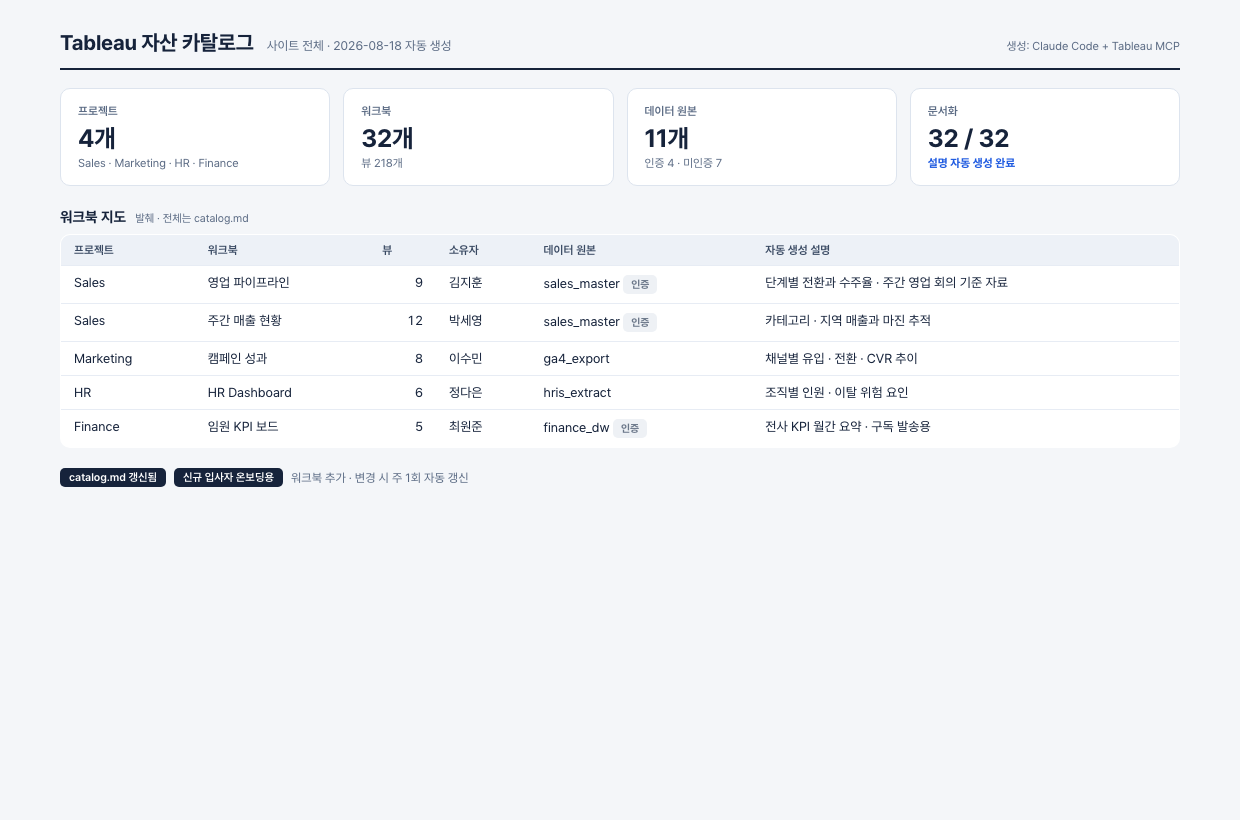
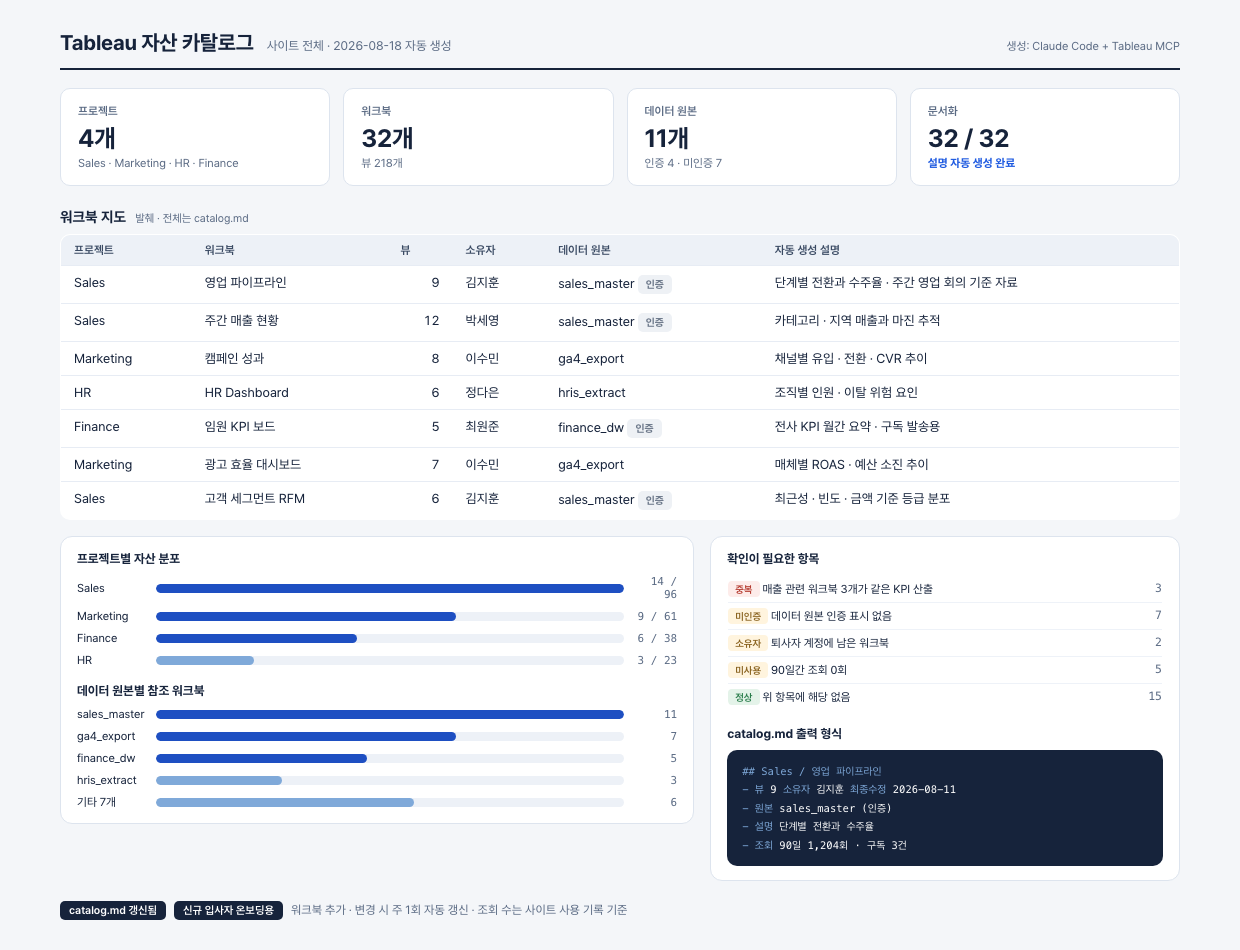
demo_public_mcp · uc4 자산 카탈로그 내용 확장 후 캡처 갱신
- demo_public_mcp: 질의 4개로 확장 (제작 구조 · 퍼널 전환 · 시트 16개 역할 · 이식 시 교체 대상)
  퍼널 막대 그래프, 시트 그룹 표, MCP가 읽어 온 항목 표 추가
- uc4: 프로젝트별 자산 분포 · 데이터 원본 참조 막대, 확인 필요 항목, catalog.md 출력 형식 추가
  워크북 지도 행 2개 추가
- 두 페이지 스크린샷 재생성해 덱에 반영

diff --git a/usecases/demo_public_mcp.html b/usecases/demo_public_mcp.html
@@ -37,6 +37,24 @@ code{font-family:'SF Mono',Menlo,monospace;font-size:11.5px;background:#EDF1F7;b
 .st{background:#F1F5FB;border-radius:8px;padding:9px 6px;text-align:center}
 .st b{font-size:16px;margin:0}
 .st span{font-size:10.5px;color:#5B6B84}
+.fun{margin:12px 0 6px;display:flex;align-items:flex-end;gap:8px}
+.fun .st2{flex:1;display:flex;flex-direction:column;align-items:center;gap:5px}
+.fun .trk{width:100%;height:64px;display:flex;align-items:flex-end}
+.fun .bar{width:100%;background:#C9DBF6;border-radius:4px 4px 0 0;min-height:4px}
+.fun .st2:last-child .bar{background:#1E4FC2}
+.fun .lb{font-size:9.5px;color:#5B6B84;text-align:center;line-height:1.2}
+.fun .vv{font-size:10.5px;font-weight:700;color:#16233B}
+.rate{display:flex;gap:6px;margin-bottom:8px}
+.rate span{flex:1;text-align:center;font-size:10px;color:#5B6B84}
+.rate span b{display:block;font-size:12px;color:#1E4FC2}
+.rate span.warn b{color:#C4453A}
+.tw{width:100%;border-collapse:collapse;margin-top:6px}
+.tw th,.tw td{text-align:left;padding:6px 8px;border-bottom:1px solid #E7ECF4;font-size:11.5px;line-height:1.45}
+.tw th{font-size:10.5px;color:#7186A3;font-weight:600;text-transform:uppercase;letter-spacing:.04em}
+.tw td.n{text-align:right;font-family:'SF Mono',Menlo,monospace;font-size:11.5px}
+.q2{background:#fff;border:1px solid #D5DEEC;border-radius:14px 14px 3px 14px;padding:11px 16px;
+  font-size:14px;font-weight:600;margin:16px 0 10px}
+.note2{margin-top:8px;font-size:11.5px;color:#7186A3;line-height:1.55}
 .foot{margin-top:18px;display:flex;gap:8px;align-items:center;font-size:12px;color:#5B6B84}
 .foot .b{background:#16233B;color:#fff;border-radius:5px;padding:3px 9px;font-size:11px;font-weight:600}
 .foot code{background:#E4EBF5}
@@ -68,17 +86,77 @@ code{font-family:'SF Mono',Menlo,monospace;font-size:11.5px;background:#EDF1F7;b
         <div class="sec">재현 순서</div>
         <li>Stage 정렬 계산 필드 → 단계별 집계 시트 → 툴팁 시트(T_) 연결 → KPI 카드(B_) 4개 → 대시보드 조립</li>
       </div>
+
+      <div class="q2">단계별 전환은 어떻게 나와? 어디서 제일 많이 빠져?</div>
+      <div class="chips"><span class="chip">get-view-data</span><span class="chip">read-sheet</span></div>
+      <div class="a">
+        <div class="sec">퍼널 단계별 잔존 · Conversion Rate 시트 기준</div>
+        <div class="fun">
+          <div class="st2"><span class="vv">842</span><div class="trk"><div class="bar" style="height:100%"></div></div><span class="lb">Prospecting</span></div>
+          <div class="st2"><span class="vv">512</span><div class="trk"><div class="bar" style="height:61%"></div></div><span class="lb">Qualification</span></div>
+          <div class="st2"><span class="vv">277</span><div class="trk"><div class="bar" style="height:33%"></div></div><span class="lb">Value<br>Proposition</span></div>
+          <div class="st2"><span class="vv">108</span><div class="trk"><div class="bar" style="height:13%"></div></div><span class="lb">Proposal</span></div>
+          <div class="st2"><span class="vv">51</span><div class="trk"><div class="bar" style="height:7%"></div></div><span class="lb">Negotiation</span></div>
+          <div class="st2"><span class="vv">24</span><div class="trk"><div class="bar" style="height:4%"></div></div><span class="lb">Closed Won</span></div>
+        </div>
+        <div class="rate">
+          <span><b>61%</b>→ Qual</span>
+          <span class="warn"><b>54%</b>→ Value</span>
+          <span class="warn"><b>39%</b>→ Proposal</span>
+          <span><b>47%</b>→ Nego</span>
+          <span><b>47%</b>→ Won</span>
+        </div>
+        <li>Value Proposition → Proposal 구간 39%로 단계 중 이탈이 가장 큼 · 277건 중 169건 이탈</li>
+        <li>전체 Prospecting → Closed Won 2.9% · 최종 Won Rate는 <code>[# of Won Opp.] / [# of Closed Opp.]</code>로 별도 계산</li>
+      </div>
+
+      <div class="q2">시트 16개는 각각 뭐 하는 거야?</div>
+      <div class="chips"><span class="chip">list-sheets</span><span class="chip">analyze-structure</span></div>
+      <div class="a">
+        <table class="tw">
+          <tr><th>그룹</th><th>시트</th><th class="n">개수</th><th>역할</th></tr>
+          <tr><td>본문</td><td>Conversion Rate · Number of Open Oppty · Top 10 Opp. · Won Rate · conversion · focus</td><td class="n">6</td><td>대시보드에 직접 배치</td></tr>
+          <tr><td><code>T_</code> 툴팁</td><td>T_# of Open Oppty · T_Avg.Age of Oppty · T_Avg.Deal Size · T_Conversion Rate · T_Total Expected Amount · T_Won Rate</td><td class="n">6</td><td>본문 시트의 툴팁으로만 삽입</td></tr>
+          <tr><td><code>B_</code> KPI</td><td>B_# of Open Oppty · B_Avg. Age of Oppty · B_Avg.Deal Size · B_Total Expected Amount</td><td class="n">4</td><td>하단 KPI 카드 4장</td></tr>
+        </table>
+        <div class="note2">접두사로 배치 용도를 나눠 두면 대시보드에서 어떤 시트를 지워도 되는지 바로 판단됩니다.
+          툴팁 전용 시트는 대시보드에 보이지 않아 이름만으로는 구분이 어렵습니다.</div>
+      </div>
+
+      <div class="q2">이 구조 그대로 우리 데이터에 쓰려면 뭘 바꿔야 해?</div>
+      <div class="chips"><span class="chip">get-workbook-details</span><span class="chip">list-fields</span></div>
+      <div class="a">
+        <div class="sec">교체 대상</div>
+        <li>필드 5개만 매핑: <code>Stage</code> · <code>Opportunity ID</code> · <code>Amount</code> · <code>Expected Amount</code> · <code>CreatedDate</code></li>
+        <li><code>Sort</code>의 CASE 문에 자사 단계명을 넣어 순서를 다시 정의</li>
+        <li><code>Age of Oppty</code>의 기준일 <code>#2018-10-01#</code>은 하드코딩 · <code>TODAY()</code>로 교체 필요</li>
+        <div class="sec">그대로 쓸 수 있는 것</div>
+        <li>LOD 4종(<code>{FIXED [Opportunity ID]: …}</code>) · 툴팁 시트 연결 구조 · KPI 카드 레이아웃</li>
+      </div>
     </div>
     <div class="side">
       <div class="viz"><img src="../assets/funnel_full.png" alt="Sales Funnel Dashboard"><div class="cap">Sales Funnel Dashboard | VOTD · 조회 104.4K · Featured</div></div>
-      <div class="prof">
+      <div class="prof" style="margin-bottom:10px">
         <b>Seoyeon Jun</b>
-        <div class="r">Tableau Visionary · Public Ambassador 5회 · VOTD 4회</div>
+        <div class="r">Tableau Visionary · Public Ambassador 2021–2026 · VOTD 4회</div>
         <div class="stats">
           <div class="st"><b>35</b><span>Vizzes</span></div>
           <div class="st"><b>2,086</b><span>Followers</span></div>
           <div class="st"><b>104K</b><span>Top Viz 조회</span></div>
         </div>
+      </div>
+      <div class="prof">
+        <b>MCP가 읽어 온 것</b>
+        <table class="tw" style="margin-top:8px">
+          <tr><td>워크북 메타데이터</td><td class="n">공개 API</td></tr>
+          <tr><td>.twbx 원본</td><td class="n">다운로드</td></tr>
+          <tr><td>시트 · 대시보드 목록</td><td class="n">16 · 1</td></tr>
+          <tr><td>계산 필드 원문</td><td class="n">27개</td></tr>
+          <tr><td>파라미터</td><td class="n">2개</td></tr>
+          <tr><td>데이터 원본 연결</td><td class="n">1개</td></tr>
+        </table>
+        <div class="note2">인증 없이 공개 워크북만 대상으로 합니다.
+          비공개 자산이나 사내 서버 자산은 이 경로로 접근할 수 없습니다.</div>
       </div>
     </div>
   </div>

diff --git a/usecases/uc4_catalog.html b/usecases/uc4_catalog.html
@@ -37,6 +37,27 @@ code{font-family:'SF Mono',Menlo,monospace;font-size:11px;background:#EDF1F7;bor
 .shotimg{background:#fff;border:1px solid #DDE4EE;border-radius:10px;overflow:hidden}
 .shotimg img{display:block;width:100%}
 .shotimg .cap{padding:8px 12px;font-size:11px;color:#5B6B84;border-top:1px solid #E7ECF4}
+.two{display:grid;grid-template-columns:1.35fr 1fr;gap:16px;align-items:start}
+.card{background:#fff;border:1px solid #DDE4EE;border-radius:12px;padding:14px 16px}
+.card h3{font-size:12.5px;color:#16233B;margin-bottom:9px;font-weight:700}
+.bars{display:flex;flex-direction:column;gap:8px}
+.brow{display:grid;grid-template-columns:70px 1fr 44px;align-items:center;gap:9px;font-size:11.5px}
+.brow .tr{height:9px;background:#EDF1F7;border-radius:5px;overflow:hidden}
+.brow .bf{height:100%;background:#1E4FC2;border-radius:5px}
+.brow .bf.s2{background:#7FA9D9}
+.brow .nn{text-align:right;font-family:'SF Mono',Menlo,monospace;font-size:11px;color:#5B6B84}
+.mini{width:100%;border-collapse:collapse}
+.mini td{padding:5px 0;font-size:11.5px;border-bottom:1px solid #EEF2F8}
+.mini td:last-child{text-align:right;font-family:'SF Mono',Menlo,monospace;color:#5B6B84}
+.mini tr:last-child td{border-bottom:0}
+.pill{display:inline-block;font-size:10px;border-radius:4px;padding:2px 7px;font-weight:600}
+.pill.a{background:#E4F3E9;color:#2A7D4B}
+.pill.b{background:#FDECEA;color:#B4392E}
+.pill.c{background:#FFF4DE;color:#8A6320}
+.mdbox{background:#16233B;border-radius:10px;padding:12px 15px;margin-top:8px;
+  font-family:'SF Mono',Menlo,monospace;font-size:10.5px;line-height:1.75;color:#C9DBF6;overflow-x:auto}
+.mdbox .k{color:#7FA9D9}
+.mdbox .v{color:#fff}
 </style></head>
 <body><div class="page">
 <div class="hd"><h1>Tableau 자산 카탈로그</h1><span class="period">사이트 전체 · 2026-08-18 자동 생성</span><span class="gen">생성: Claude Code + Tableau MCP</span></div>
@@ -55,7 +76,47 @@ code{font-family:'SF Mono',Menlo,monospace;font-size:11px;background:#EDF1F7;bor
   <tr><td>Marketing</td><td>캠페인 성과</td><td class="num">8</td><td>이수민</td><td>ga4_export</td><td>채널별 유입 · 전환 · CVR 추이</td></tr>
   <tr><td>HR</td><td>HR Dashboard</td><td class="num">6</td><td>정다은</td><td>hris_extract</td><td>조직별 인원 · 이탈 위험 요인</td></tr>
   <tr><td>Finance</td><td>임원 KPI 보드</td><td class="num">5</td><td>최원준</td><td>finance_dw <span class="tag ok">인증</span></td><td>전사 KPI 월간 요약 · 구독 발송용</td></tr>
+  <tr><td>Marketing</td><td>광고 효율 대시보드</td><td class="num">7</td><td>이수민</td><td>ga4_export</td><td>매체별 ROAS · 예산 소진 추이</td></tr>
+  <tr><td>Sales</td><td>고객 세그먼트 RFM</td><td class="num">6</td><td>김지훈</td><td>sales_master <span class="tag ok">인증</span></td><td>최근성 · 빈도 · 금액 기준 등급 분포</td></tr>
 </table>
-<div class="foot"><span class="b">catalog.md 갱신됨</span><span class="b">신규 입사자 온보딩용</span><span>워크북 추가 · 변경 시 주 1회 자동 갱신</span></div>
+<div class="two" style="margin-top:16px">
+  <div class="card">
+    <h3>프로젝트별 자산 분포</h3>
+    <div class="bars">
+      <div class="brow"><span>Sales</span><div class="tr"><div class="bf" style="width:100%"></div></div><span class="nn">14 / 96</span></div>
+      <div class="brow"><span>Marketing</span><div class="tr"><div class="bf" style="width:64%"></div></div><span class="nn">9 / 61</span></div>
+      <div class="brow"><span>Finance</span><div class="tr"><div class="bf" style="width:43%"></div></div><span class="nn">6 / 38</span></div>
+      <div class="brow"><span>HR</span><div class="tr"><div class="bf s2" style="width:21%"></div></div><span class="nn">3 / 23</span></div>
+    </div>
+    <h3 style="margin-top:16px">데이터 원본별 참조 워크북</h3>
+    <div class="bars">
+      <div class="brow"><span>sales_master</span><div class="tr"><div class="bf" style="width:100%"></div></div><span class="nn">11</span></div>
+      <div class="brow"><span>ga4_export</span><div class="tr"><div class="bf" style="width:64%"></div></div><span class="nn">7</span></div>
+      <div class="brow"><span>finance_dw</span><div class="tr"><div class="bf" style="width:45%"></div></div><span class="nn">5</span></div>
+      <div class="brow"><span>hris_extract</span><div class="tr"><div class="bf s2" style="width:27%"></div></div><span class="nn">3</span></div>
+      <div class="brow"><span>기타 7개</span><div class="tr"><div class="bf s2" style="width:55%"></div></div><span class="nn">6</span></div>
+    </div>
+  </div>
+  <div class="card">
+    <h3>확인이 필요한 항목</h3>
+    <table class="mini">
+      <tr><td><span class="pill b">중복</span> 매출 관련 워크북 3개가 같은 KPI 산출</td><td>3</td></tr>
+      <tr><td><span class="pill c">미인증</span> 데이터 원본 인증 표시 없음</td><td>7</td></tr>
+      <tr><td><span class="pill c">소유자</span> 퇴사자 계정에 남은 워크북</td><td>2</td></tr>
+      <tr><td><span class="pill c">미사용</span> 90일간 조회 0회</td><td>5</td></tr>
+      <tr><td><span class="pill a">정상</span> 위 항목에 해당 없음</td><td>15</td></tr>
+    </table>
+    <h3 style="margin-top:15px">catalog.md 출력 형식</h3>
+    <div class="mdbox">
+<span class="k">## Sales / 영업 파이프라인</span><br>
+<span class="k">- 뷰</span> <span class="v">9</span>  <span class="k">소유자</span> <span class="v">김지훈</span>  <span class="k">최종수정</span> <span class="v">2026-08-11</span><br>
+<span class="k">- 원본</span> <span class="v">sales_master (인증)</span><br>
+<span class="k">- 설명</span> <span class="v">단계별 전환과 수주율</span><br>
+<span class="k">- 조회</span> <span class="v">90일 1,204회 · 구독 3건</span>
+    </div>
+  </div>
+</div>
+
+<div class="foot"><span class="b">catalog.md 갱신됨</span><span class="b">신규 입사자 온보딩용</span><span>워크북 추가 · 변경 시 주 1회 자동 갱신 · 조회 수는 사이트 사용 기록 기준</span></div>
 
 </div></body></html>
